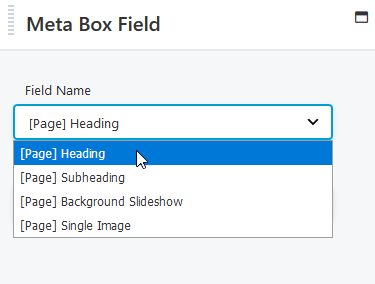
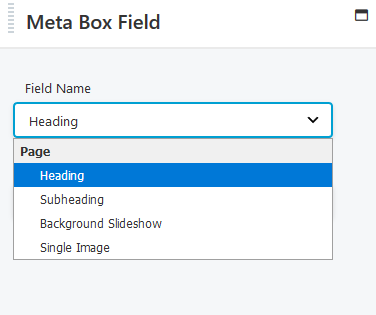
Show fields grouped by custom post types.

diff --git a/class-mb-beaver-themer-integrator.php b/class-mb-beaver-themer-integrator.php
@@ -36,12 +36,12 @@ class MB_Beaver_Themer_Integrator {
 			'form'   => 'meta_box',
 		) );
 		FLPageData::add_post_property_settings_fields( 'meta_box', array(
-			'field' => array(
+			'field'      => array(
 				'type'    => 'select',
 				'label'   => __( 'Field Name', 'meta-box-beaver-themer-integrator' ),
 				'options' => $this->get_post_fields(),
 			),
-			'image_size'  => array(
+			'image_size' => array(
 				'type'  => 'photo-sizes',
 				'label' => __( 'Image Size', 'meta-box-beaver-themer-integrator' ),
 			),
@@ -91,14 +91,17 @@ class MB_Beaver_Themer_Integrator {
 			if ( ! $post_type_object ) {
 				continue;
 			}
-			$post_type_label = $post_type_object->labels->singular_name;
+			$options = array();
 			foreach ( $list as $field ) {
 				if ( in_array( $field['type'], array( 'heading', 'divider', 'custom_html', 'button' ), true ) ) {
 					continue;
 				}
-				$field_label             = $field['name'] ? $field['name'] : $field['id'];
-				$sources[ $field['id'] ] = "[{$post_type_label}] {$field_label}";
+				$options[ $field['id'] ] = $field['name'] ? $field['name'] : $field['id'];
 			}
+			$sources[ $post_type ] = array(
+				'label'   => $post_type_object->labels->singular_name,
+				'options' => $options,
+			);
 		}
 
 		return $sources;
